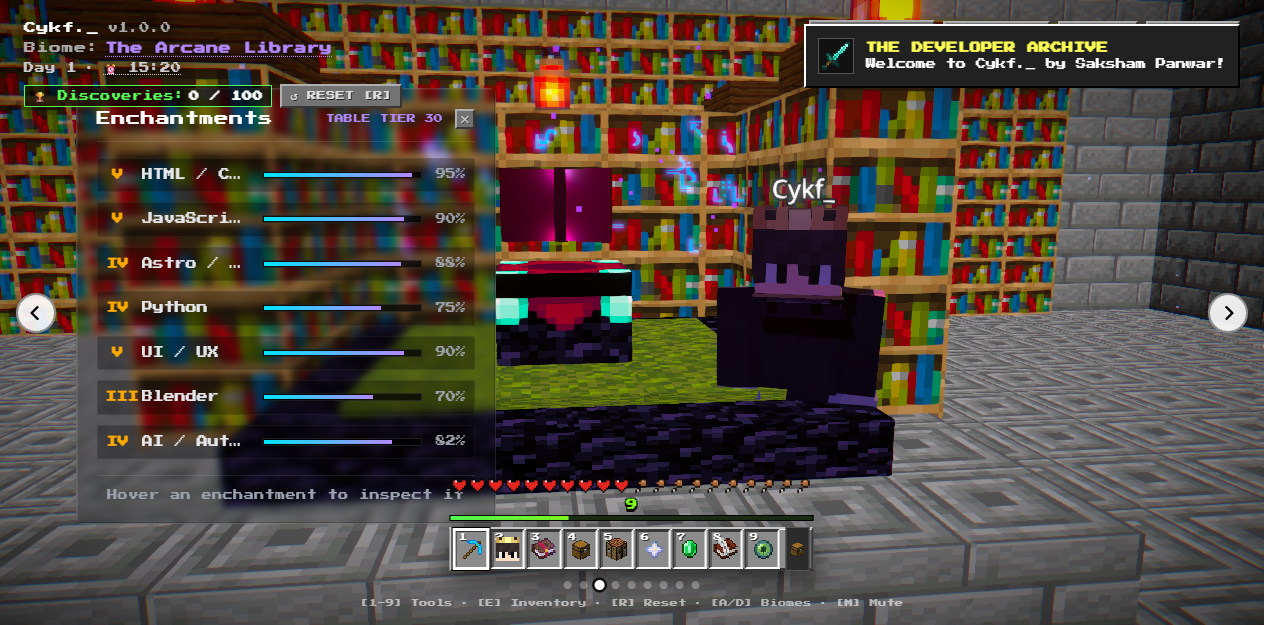
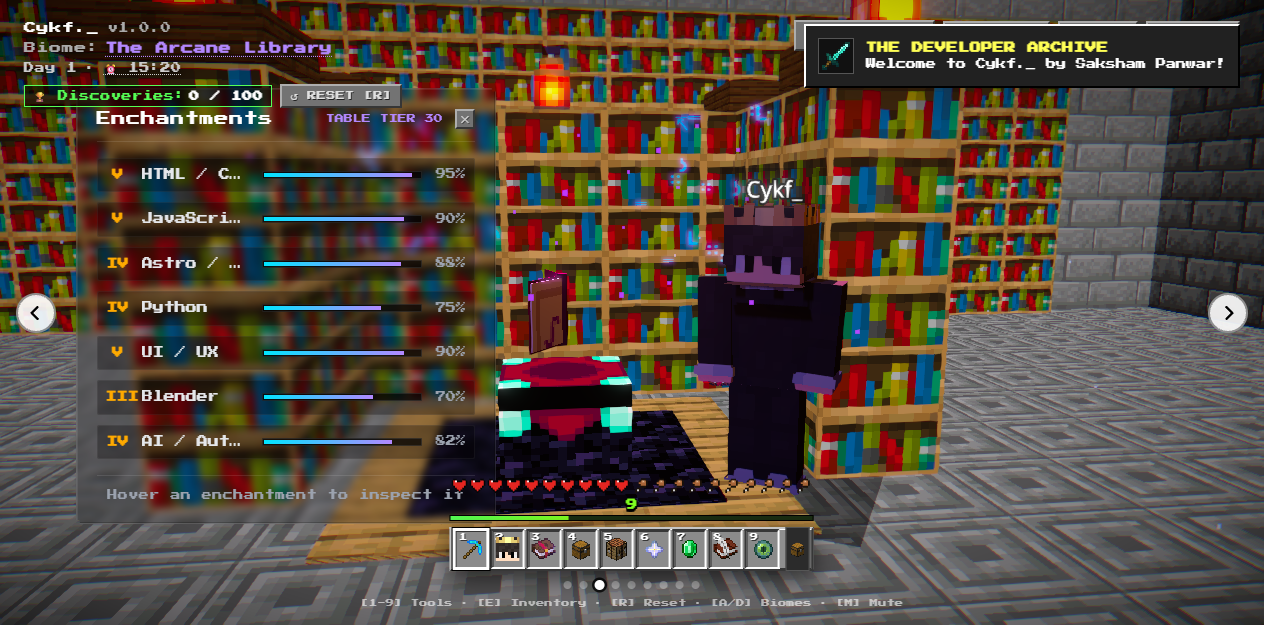
fix(scenes): player unclipped in Scene 3, remove pole in Scene 4, horizontal End portal in Scene 9

diff --git a/src/world/VoxelArchitecture.tsx b/src/world/VoxelArchitecture.tsx
@@ -1827,48 +1827,86 @@ export const ObsidianPillarWithCrystal: React.FC<{
 /**
  * Central Bedrock Exit Portal Fountain (Scene 9)
  */
+/**
+ * Canonical Minecraft End Exit Portal Fountain (Scene 9)
+ * Built with authentic bedrock basin rim, central bedrock pillar, and horizontal shimmering cosmic End Portal fluid.
+ */
 export const EndExitPortalFountain: React.FC<{
   position?: [number, number, number];
 }> = ({ position = [0, 0, 0] }) => {
+  const portalMatRef = useRef<THREE.MeshStandardMaterial>(null);
+
+  // Authentic Minecraft End Portal starry cosmic texture
+  const endPortalTex = useMemo(() => {
+    const loader = new THREE.TextureLoader();
+    const tex = loader.load('/texturepack/assets/minecraft/textures/entity/end_portal/end_portal.png');
+    tex.wrapS = THREE.RepeatWrapping;
+    tex.wrapT = THREE.RepeatWrapping;
+    tex.repeat.set(2.5, 2.5);
+    tex.magFilter = THREE.NearestFilter;
+    tex.minFilter = THREE.NearestFilter;
+    tex.colorSpace = THREE.SRGBColorSpace;
+    return tex;
+  }, []);
+
+  useFrame((state) => {
+    if (portalMatRef.current && portalMatRef.current.map) {
+      const t = state.clock.getElapsedTime();
+      portalMatRef.current.map.offset.x = (t * 0.015) % 1;
+      portalMatRef.current.map.offset.y = (t * 0.01) % 1;
+    }
+  });
+
   return (
     <group position={position}>
-      {/* Octagonal Bedrock Basin Rim */}
+      {/* 1. Bedrock Basin Outer Rim (5.2m x 0.5m x 5.2m, flush on ground y=0.0) */}
       <mesh
-        position={[0, 0.4, 0]}
+        position={[0, 0.25, 0]}
         geometry={createVanillaBlockGeometry({
-          width: 5.6,
-          height: 0.8,
-          depth: 5.6,
+          width: 5.2,
+          height: 0.5,
+          depth: 5.2,
           textures: 'bedrock',
         })}
         material={vanillaAtlas.getSolidMaterial()}
         receiveShadow
       />
 
-      {/* Central Bedrock Pillar */}
+      {/* 2. Canonical Horizontal End Portal Plane (Lies completely flat inside bedrock basin at y=0.48) */}
+      <mesh position={[0, 0.48, 0]} rotation={[-Math.PI / 2, 0, 0]}>
+        <planeGeometry args={[4.2, 4.2]} />
+        <meshStandardMaterial
+          ref={portalMatRef}
+          map={endPortalTex}
+          roughness={0.2}
+          metalness={0.1}
+          emissive="#581C87"
+          emissiveIntensity={1.2}
+          emissiveMap={endPortalTex}
+          side={THREE.DoubleSide}
+        />
+      </mesh>
+
+      {/* 3. Central Bedrock Pillar (1.0m x 3.6m x 1.0m) */}
       <mesh
-        position={[0, 2.5, 0]}
+        position={[0, 2.1, 0]}
         geometry={createVanillaBlockGeometry({
-          width: 1.2,
-          height: 4.2,
-          depth: 1.2,
+          width: 1.0,
+          height: 3.6,
+          depth: 1.0,
           textures: 'bedrock',
         })}
         material={vanillaAtlas.getSolidMaterial()}
+        castShadow
+        receiveShadow
       />
 
-      {/* Black Starry Void Portal Pool */}
-      <mesh position={[0, 0.85, 0]}>
-        <planeGeometry args={[4.2, 4.2]} />
-        <meshBasicMaterial color="#000208" side={THREE.DoubleSide} />
+      {/* 4. Top Torch / Dragon Egg Mount on Pillar (y=4.0) */}
+      <mesh position={[0, 4.0, 0]}>
+        <boxGeometry args={[0.25, 0.45, 0.25]} />
+        <meshStandardMaterial color="#FFAA00" emissive="#FF8800" emissiveIntensity={2.0} />
       </mesh>
-
-      {/* 4 Torches on Bedrock Pillar */}
-      <mesh position={[0, 4.8, 0]}>
-        <boxGeometry args={[0.3, 0.6, 0.3]} />
-        <meshBasicMaterial color="#FFAA33" />
-      </mesh>
-      <pointLight position={[0, 5.0, 0]} color="#FFAA33" intensity={3.0} distance={10} />
+      <pointLight position={[0, 4.2, 0]} color="#FFAA33" intensity={2.8} distance={9} />
     </group>
   );
 };

diff --git a/src/scenes/Scene03Enchantments.tsx b/src/scenes/Scene03Enchantments.tsx
@@ -11,9 +11,6 @@ import {
   VanillaLantern,
   VolumetricGodRay,
 } from '../world/VoxelStructures';
-import {
-  ArcaneEnchantingDais,
-} from '../world/VoxelArchitecture';
 import { Interactable } from '../interaction/Interactable';
 import { sounds } from '../audio/soundManager';
 import { useStore } from '../store';
@@ -239,6 +236,25 @@ export const Scene03Enchantments: React.FC = () => {
     });
   }, []);
 
+  // 4b. Authentic Obsidian & Purple Carpet Runic Floor Inlay (Flush at y=0.0)
+  const floorInlayGeo = useMemo(() => {
+    return createVanillaBlockGeometry({
+      width: 2.2,
+      height: 0.05,
+      depth: 2.2,
+      textures: 'obsidian',
+    });
+  }, []);
+
+  const carpetBorderGeo = useMemo(() => {
+    return createVanillaBlockGeometry({
+      width: 3.2,
+      height: 0.03,
+      depth: 3.2,
+      textures: 'purple_carpet',
+    });
+  }, []);
+
   return (
     <group>
       {/* ----------------------------------------------------------------------- */}
@@ -343,9 +359,11 @@ export const Scene03Enchantments: React.FC = () => {
       {/* 4. CENTRAL ENCHANTING SANCTUARY & STREAMING SGA RUNES                   */}
       {/* ----------------------------------------------------------------------- */}
       <group position={[0, 0, -0.5]}>
-        <ArcaneEnchantingDais position={[0, 0, 0]} />
+        {/* Decorative Obsidian & Purple Carpet Floor Inlay (Flush at floor level) */}
+        <mesh position={[0, 0.015, 0]} geometry={carpetBorderGeo} material={vanillaAtlas.getSolidMaterial()} receiveShadow />
+        <mesh position={[0, 0.025, 0]} geometry={floorInlayGeo} material={vanillaAtlas.getSolidMaterial()} receiveShadow />
 
-        {/* Interactive 3D Enchanting Table (Rests flush on dais altar top y=0.85) */}
+        {/* Interactive 3D Enchanting Table (Rests flush on floor at y=0.0) */}
         <Interactable
           id="scene03_enchanting_table"
           name="Arcane Enchanting Table (Tier 30)"
@@ -357,7 +375,7 @@ export const Scene03Enchantments: React.FC = () => {
             useStore.getState().recordDiscovery('scene03_enchanting_table', 'PROP', 'Enchantment Codex');
           }}
         >
-          <group position={[0, 0.85, 0]}>
+          <group position={[0, 0.0, 0]}>
             <EnchantingTable3D position={[0, 0, 0]} />
           </group>
         </Interactable>
@@ -375,7 +393,7 @@ export const Scene03Enchantments: React.FC = () => {
       </group>
 
       {/* ----------------------------------------------------------------------- */}
-      {/* 5. PLAYER MODEL: Cykf_ Studying the Glyphs (Flush on Floor y=0.0)       */}
+      {/* 5. PLAYER MODEL: Cykf_ Studying the Glyphs (Standing on Floor y=0.0)    */}
       {/* ----------------------------------------------------------------------- */}
       <React.Suspense fallback={null}>
         <Interactable
@@ -387,7 +405,7 @@ export const Scene03Enchantments: React.FC = () => {
             useStore.getState().recordDiscovery('scene03_player_cykf', 'PLAYER', 'Arcane Scholar');
           }}
         >
-          <group position={[1.5, 0.0, 0.8]} rotation={[0, -0.4, 0]}>
+          <group position={[1.5, 0.0, 0.2]} rotation={[0, -0.55, 0]}>
             <PlayerModel
               pose="idle"
               heldItem="enchanted-book"

diff --git a/src/scenes/Scene04Chest.tsx b/src/scenes/Scene04Chest.tsx
@@ -185,11 +185,8 @@ export const Scene04Chest: React.FC = () => {
       </group>
 
       {/* ----------------------------------------------------------------------- */}
-      {/* 3. WOODEN MINESHAFT SUPPORT ARCHES & RAILWAY                            */}
+      {/* 3. WOODEN MINESHAFT SUPPORT ARCHES & RAILWAY (Tunnel Archways)           */}
       {/* ----------------------------------------------------------------------- */}
-      <group position={[-2.5, 0.0, 1.5]}>
-        <MineshaftSupportArch width={3.6} height={3.8} />
-      </group>
       <group position={[-2.5, 0.0, -2.5]}>
         <MineshaftSupportArch width={3.6} height={3.8} />
       </group>
@@ -198,9 +195,6 @@ export const Scene04Chest: React.FC = () => {
       </group>
 
       {/* Wall Torches on Support Beams */}
-      <group position={[-4.1, 2.3, 1.5]}>
-        <VoxelTorch position={[0, 0, 0]} />
-      </group>
       <group position={[-0.9, 2.3, -2.5]}>
         <VoxelTorch position={[0, 0, 0]} />
       </group>
